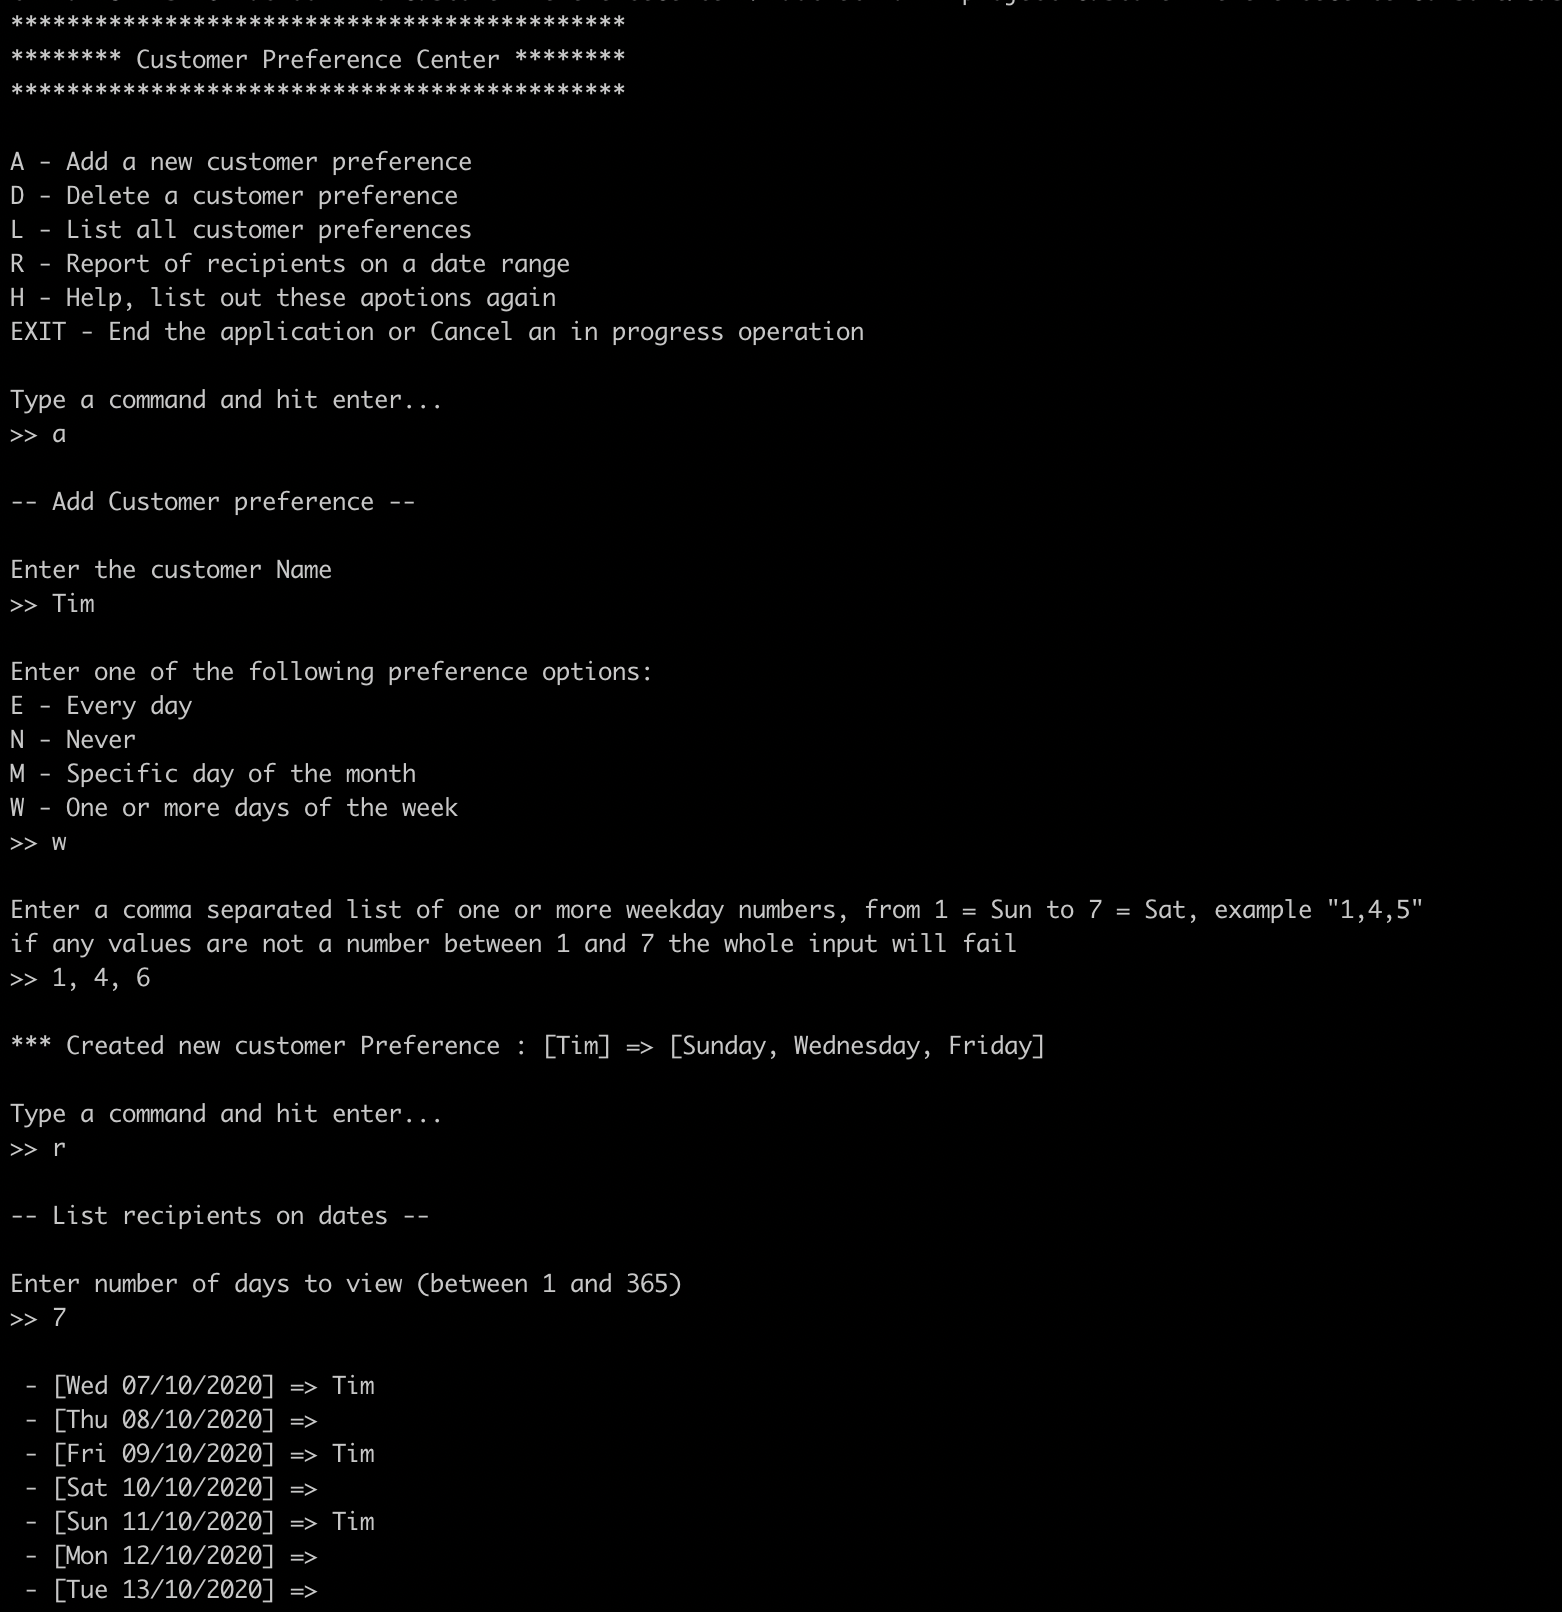
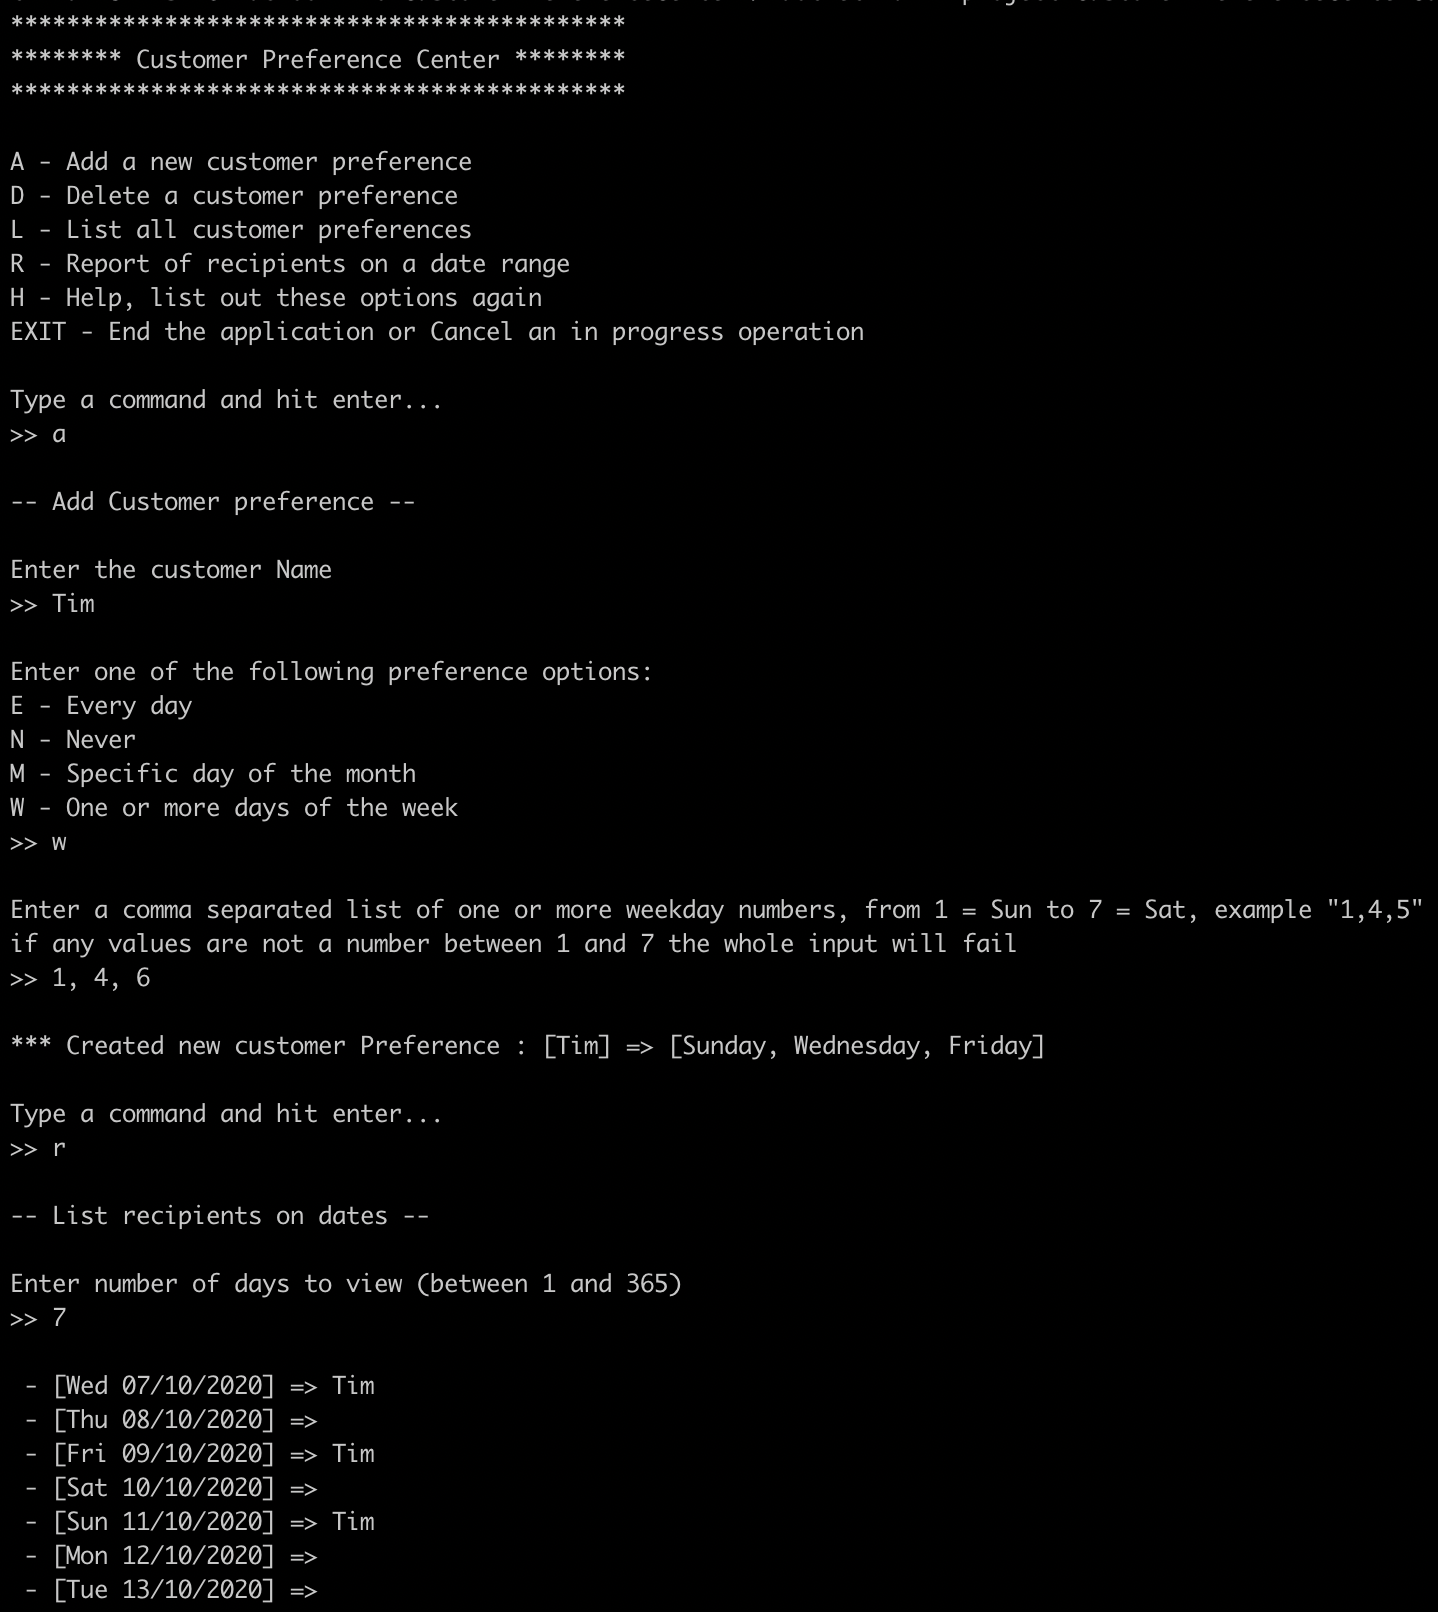
typo

diff --git a/CustomerPreferenceCenterConsole/ConsoleReaderAndWrite.cs b/CustomerPreferenceCenterConsole/ConsoleReaderAndWrite.cs
@@ -66,7 +66,7 @@ namespace CustomerPreferenceCenterConsole
             _($"{Options.DELETE_CUSTOMER_PREFERENCE} - Delete a customer preference");
             _($"{Options.LIST_COSTOMER_PREFERENCES} - List all customer preferences");
             _($"{Options.REPORT_RECIPIENTS_FOR_DATE_RANGE} - Report of recipients on a date range");
-            _($"{Options.LIST_OPTIONS} - Help, list out these apotions again");
+            _($"{Options.LIST_OPTIONS} - Help, list out these options again");
             _($"{Options.EXIT} - End the application or Cancel an in progress operation");
         }
 
